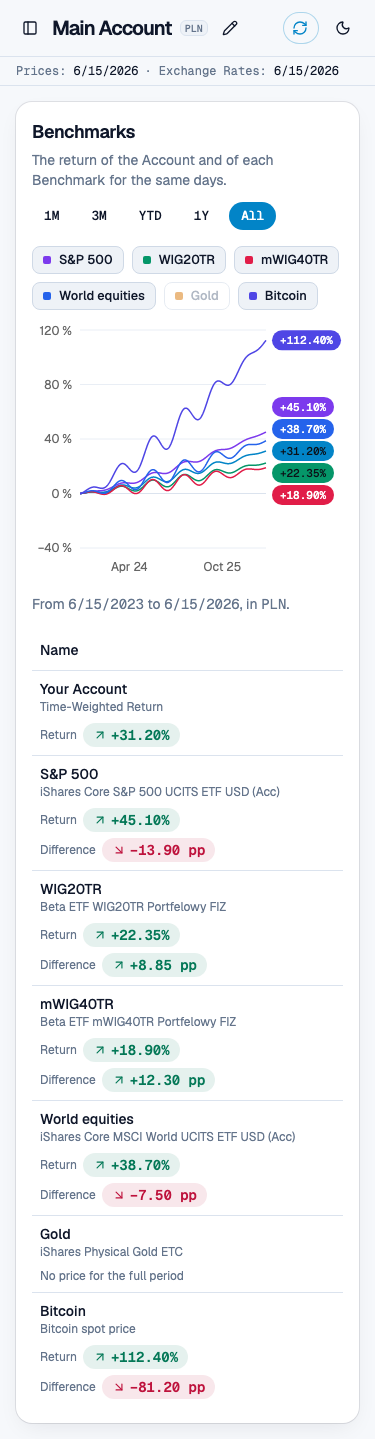
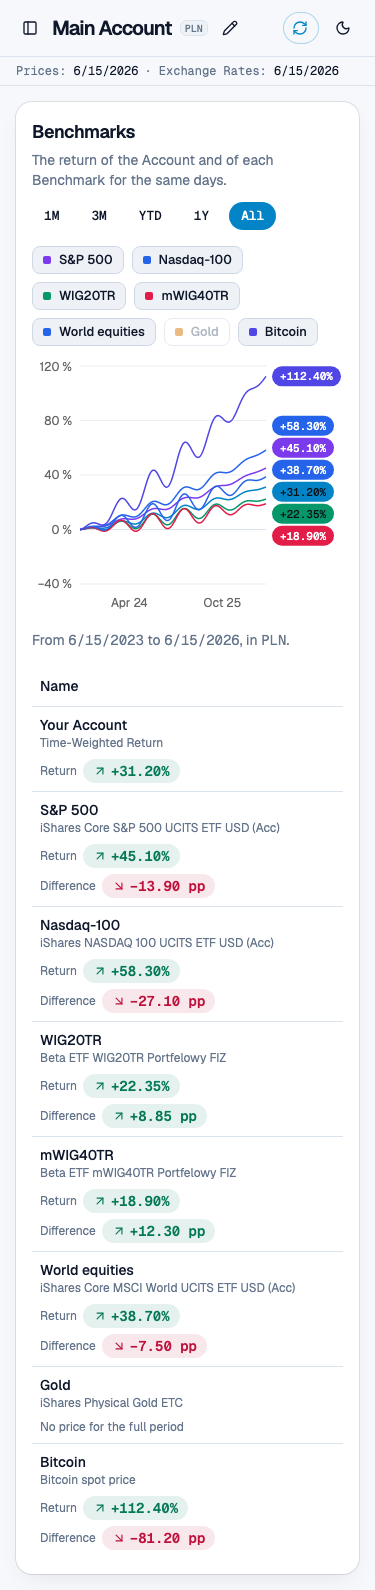
Add the Nasdaq-100 Benchmark
The accumulating fund CNDX.L represents the Nasdaq-100 (ADR 0008). The ticker check found daily closes, currency USD and no dividend events.

diff --git a/frontend/screenshots/fixtures.ts b/frontend/screenshots/fixtures.ts
@@ -669,7 +669,7 @@ function returnSeries(
   })
 }
 
-// benchmarkRows gives the six Benchmarks for a user return. Gold has no price for the whole period.
+// benchmarkRows gives the seven Benchmarks for a user return. Gold has no price for the whole period.
 function benchmarkRows(
   user: number,
   from: string,
@@ -683,6 +683,14 @@ function benchmarkRows(
       "CSPX.L",
       "USD",
       45.1,
+    ],
+    [
+      "nasdaq100",
+      "Nasdaq-100",
+      "iShares NASDAQ 100 UCITS ETF USD (Acc)",
+      "CNDX.L",
+      "USD",
+      58.3,
     ],
     [
       "wig20tr",

diff --git a/backend/internal/httpapi/benchmarks_test.go b/backend/internal/httpapi/benchmarks_test.go
@@ -137,6 +137,7 @@ func TestBenchmarks_BenchmarkInAccountCurrency_ReturnAndDifference(t *testing.T)
 		User: userReturnDTO{Return: ptr("1"), Series: octoberSeries(map[int]string{20: "1"})},
 		Benchmarks: []benchmarkDTO{
 			noFullPeriod("sp500", "S&P 500", "iShares Core S&P 500 UCITS ETF USD (Acc)", "CSPX.L", "USD"),
+			noFullPeriod("nasdaq100", "Nasdaq-100", "iShares NASDAQ 100 UCITS ETF USD (Acc)", "CNDX.L", "USD"),
 			{
 				ID: "wig20tr", Name: "WIG20TR", Fund: "Beta ETF WIG20TR Portfelowy FIZ", Ticker: "ETFBW20TR.WA",
 				QuoteCurrency: "PLN", Status: "available", Return: ptr("12.5"), Difference: ptr("-11.5"),
@@ -586,7 +587,7 @@ func TestBenchmarks_CloseInOtherCurrency_NotStoredAndAskedAgain(t *testing.T) {
 }
 
 // benchmarkTickers are the price tickers of the Benchmarks, in the order of the list.
-var benchmarkTickers = []string{"CSPX.L", "ETFBW20TR.WA", "ETFBM40TR.WA", "IWDA.L", "IGLN.L", "BTC-USD"}
+var benchmarkTickers = []string{"CSPX.L", "CNDX.L", "ETFBW20TR.WA", "ETFBM40TR.WA", "IWDA.L", "IGLN.L", "BTC-USD"}
 
 // benchmarkRequests returns the request of each Benchmark from the day from to the day to, in the order of the list.
 func benchmarkRequests(from, to string) []historyRequest {
@@ -610,7 +611,7 @@ func TestRefreshPrices_Benchmarks_RequestsEachBenchmarkFromSevenDaysBeforeFirstC
 
 	assert.Equal(t, benchmarkRequests("2026-09-24", "2026-10-22"), provider.adjustedRequests())
 	assert.Len(t, provider.historyRequests(), 2, "the Instruments get their history as before")
-	assert.Equal(t, 8, srv.pauses.count(), "the tool pauses before each history request, also of a Benchmark")
+	assert.Equal(t, 9, srv.pauses.count(), "the tool pauses before each history request, also of a Benchmark")
 }
 
 func TestRefreshPrices_SecondRefresh_AsksNoBenchmarkDaysAgain(t *testing.T) {
@@ -686,6 +687,6 @@ func TestRefreshPrices_BenchmarkTooManyRequests_StopsTheRefresh(t *testing.T) {
 	refresh := srv.refreshHistory(t)
 
 	assert.True(t, refresh.TooManyRequests)
-	assert.Equal(t, benchmarkRequests("2026-09-24", "2026-10-22")[:2], provider.adjustedRequests(),
+	assert.Equal(t, benchmarkRequests("2026-09-24", "2026-10-22")[:3], provider.adjustedRequests(),
 		"the refresh sends no request after the block")
 }

diff --git a/backend/internal/httpapi/pricehistory_test.go b/backend/internal/httpapi/pricehistory_test.go
@@ -120,7 +120,7 @@ func TestRefreshPrices_SoldInstrument_GetsHistoryFromFirstFillToYesterday(t *tes
 	assert.Equal(t, []string{"XYZ"}, provider.requestedTickers(), "only a held Instrument gets a current price")
 	assert.Equal(t, []string{"2026-10-19=101", "2026-10-20=103", "2026-10-21=105", "2026-10-22=104"}, srv.storedCloses(t, "ABC.US"))
 	assert.Equal(t, []string{"2026-10-20=50.5", "2026-10-21=51", "2026-10-22=52"}, srv.storedCloses(t, "XYZ.US"))
-	assert.Equal(t, 8, srv.pauses.count(), "the tool pauses before each history request: 2 Instruments and 6 Benchmarks")
+	assert.Equal(t, 9, srv.pauses.count(), "the tool pauses before each history request: 2 Instruments and 7 Benchmarks")
 }
 
 func TestRefreshPrices_SecondRefresh_AsksOnlyMissingDays(t *testing.T) {
@@ -360,8 +360,8 @@ func TestRefreshProgress_ShowsTheRunningHistoryRequest(t *testing.T) {
 
 	close(release)
 	require.NoError(t, <-done)
-	assert.Equal(t, progressResponse{Running: true, Done: 1, Total: 8, Ticker: ptr("XYZ.US")}, got,
-		"the total has the 2 Instruments and the 6 Benchmarks")
+	assert.Equal(t, progressResponse{Running: true, Done: 1, Total: 9, Ticker: ptr("XYZ.US")}, got,
+		"the total has the 2 Instruments and the 7 Benchmarks")
 	assert.Equal(t, progressResponse{}, srv.progress(t), "the refresh is done")
 }
 

diff --git a/backend/internal/httpapi/allbenchmarks_test.go b/backend/internal/httpapi/allbenchmarks_test.go
@@ -92,6 +92,7 @@ func TestAllBenchmarks_PLNAndUSDAccounts_ReturnInPLNAndDifference(t *testing.T) 
 				QuoteCurrency: "USD", Status: "available", Return: ptr("2.6"), Difference: ptr("-4.6"),
 				Series: octoberSeries(map[int]string{15: "1.4", 22: "5.3", 23: "2.6"}),
 			},
+			noFullPeriod("nasdaq100", "Nasdaq-100", "iShares NASDAQ 100 UCITS ETF USD (Acc)", "CNDX.L", "USD"),
 			{
 				ID: "wig20tr", Name: "WIG20TR", Fund: "Beta ETF WIG20TR Portfelowy FIZ", Ticker: "ETFBW20TR.WA",
 				QuoteCurrency: "PLN", Status: "available", Return: ptr("12.5"), Difference: ptr("-14.5"),

diff --git a/backend/internal/benchmark/compare_test.go b/backend/internal/benchmark/compare_test.go
@@ -116,7 +116,7 @@ func TestCompare_EachBenchmarkOfTheListInOrder(t *testing.T) {
 		ids = append(ids, r.ID)
 		assert.Equal(t, benchmark.StatusNoFullPeriod, r.Status)
 	}
-	assert.Equal(t, []string{"sp500", "wig20tr", "mwig40tr", "world", "gold", "bitcoin"}, ids)
+	assert.Equal(t, []string{"sp500", "nasdaq100", "wig20tr", "mwig40tr", "world", "gold", "bitcoin"}, ids)
 }
 
 // TestCompare_Series checks the Benchmark Return of each calendar day from the base day 2026-10-01 to the last

diff --git a/backend/internal/benchmark/benchmark.go b/backend/internal/benchmark/benchmark.go
@@ -29,6 +29,10 @@ func List() []Benchmark {
 			Ticker: "CSPX.L", QuoteCurrency: "USD",
 		},
 		{
+			ID: "nasdaq100", Name: "Nasdaq-100", Fund: "iShares NASDAQ 100 UCITS ETF USD (Acc)",
+			Ticker: "CNDX.L", QuoteCurrency: "USD",
+		},
+		{
 			ID: "wig20tr", Name: "WIG20TR", Fund: "Beta ETF WIG20TR Portfelowy FIZ",
 			Ticker: "ETFBW20TR.WA", QuoteCurrency: "PLN",
 		},

diff --git a/docs/adr/0008-accumulating-fund-represents-each-benchmark.md b/docs/adr/0008-accumulating-fund-represents-each-benchmark.md
@@ -21,11 +21,12 @@ The tool compares the Time-Weighted Return of the user with the Benchmark Return
 
 ## The list
 
-The ticker check on 2026-11-22 used the chart endpoint of Yahoo Finance. Each fund has daily closes, no dividend events and a currency in a full unit. No candidate needed a replacement.
+The ticker check on 2026-11-22 used the chart endpoint of Yahoo Finance. Each fund has daily closes, no dividend events and a currency in a full unit. No candidate needed a replacement. The user added the Nasdaq-100 on 2026-11-24. The check of `CNDX.L` on that day found daily closes, no dividend events and the currency USD.
 
 | Benchmark | Fund | Price ticker | Quote Currency | First close |
 |---|---|---|---|---|
 | S&P 500 | iShares Core S&P 500 UCITS ETF USD (Acc) | `CSPX.L` | USD | 2010-09-15 |
+| Nasdaq-100 | iShares NASDAQ 100 UCITS ETF USD (Acc) | `CNDX.L` | USD | 2010-09-15 |
 | WIG20TR | Beta ETF WIG20TR Portfelowy FIZ | `ETFBW20TR.WA` | PLN | 2019-01-07 |
 | mWIG40TR | Beta ETF mWIG40TR Portfelowy FIZ | `ETFBM40TR.WA` | PLN | 2019-09-05 |
 | World equities | iShares Core MSCI World UCITS ETF USD (Acc) | `IWDA.L` | USD | 2009-09-25 |
